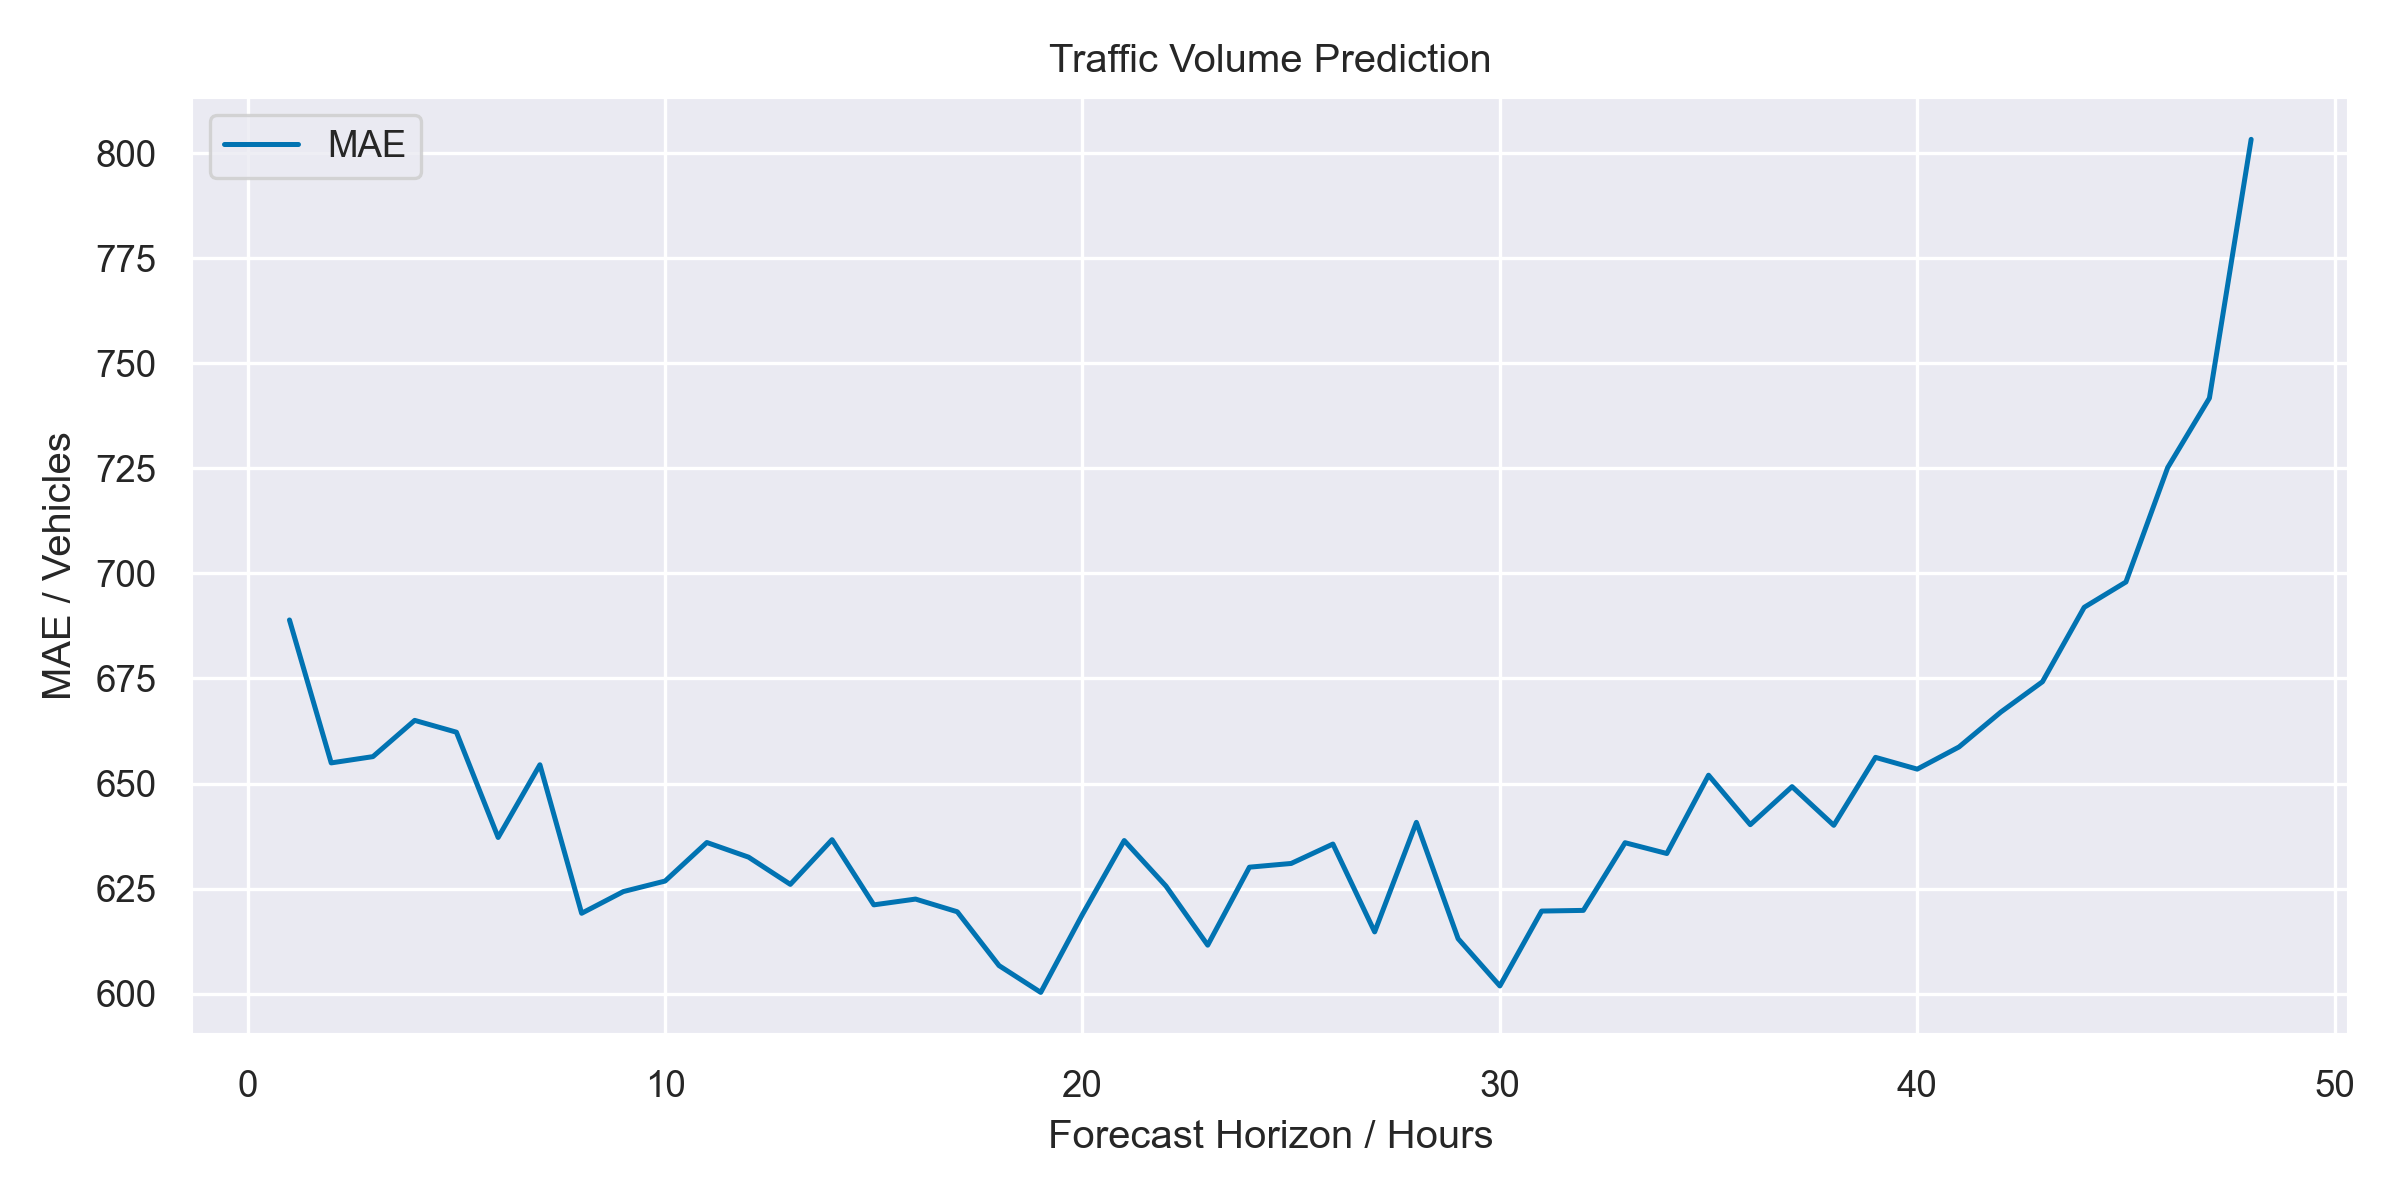
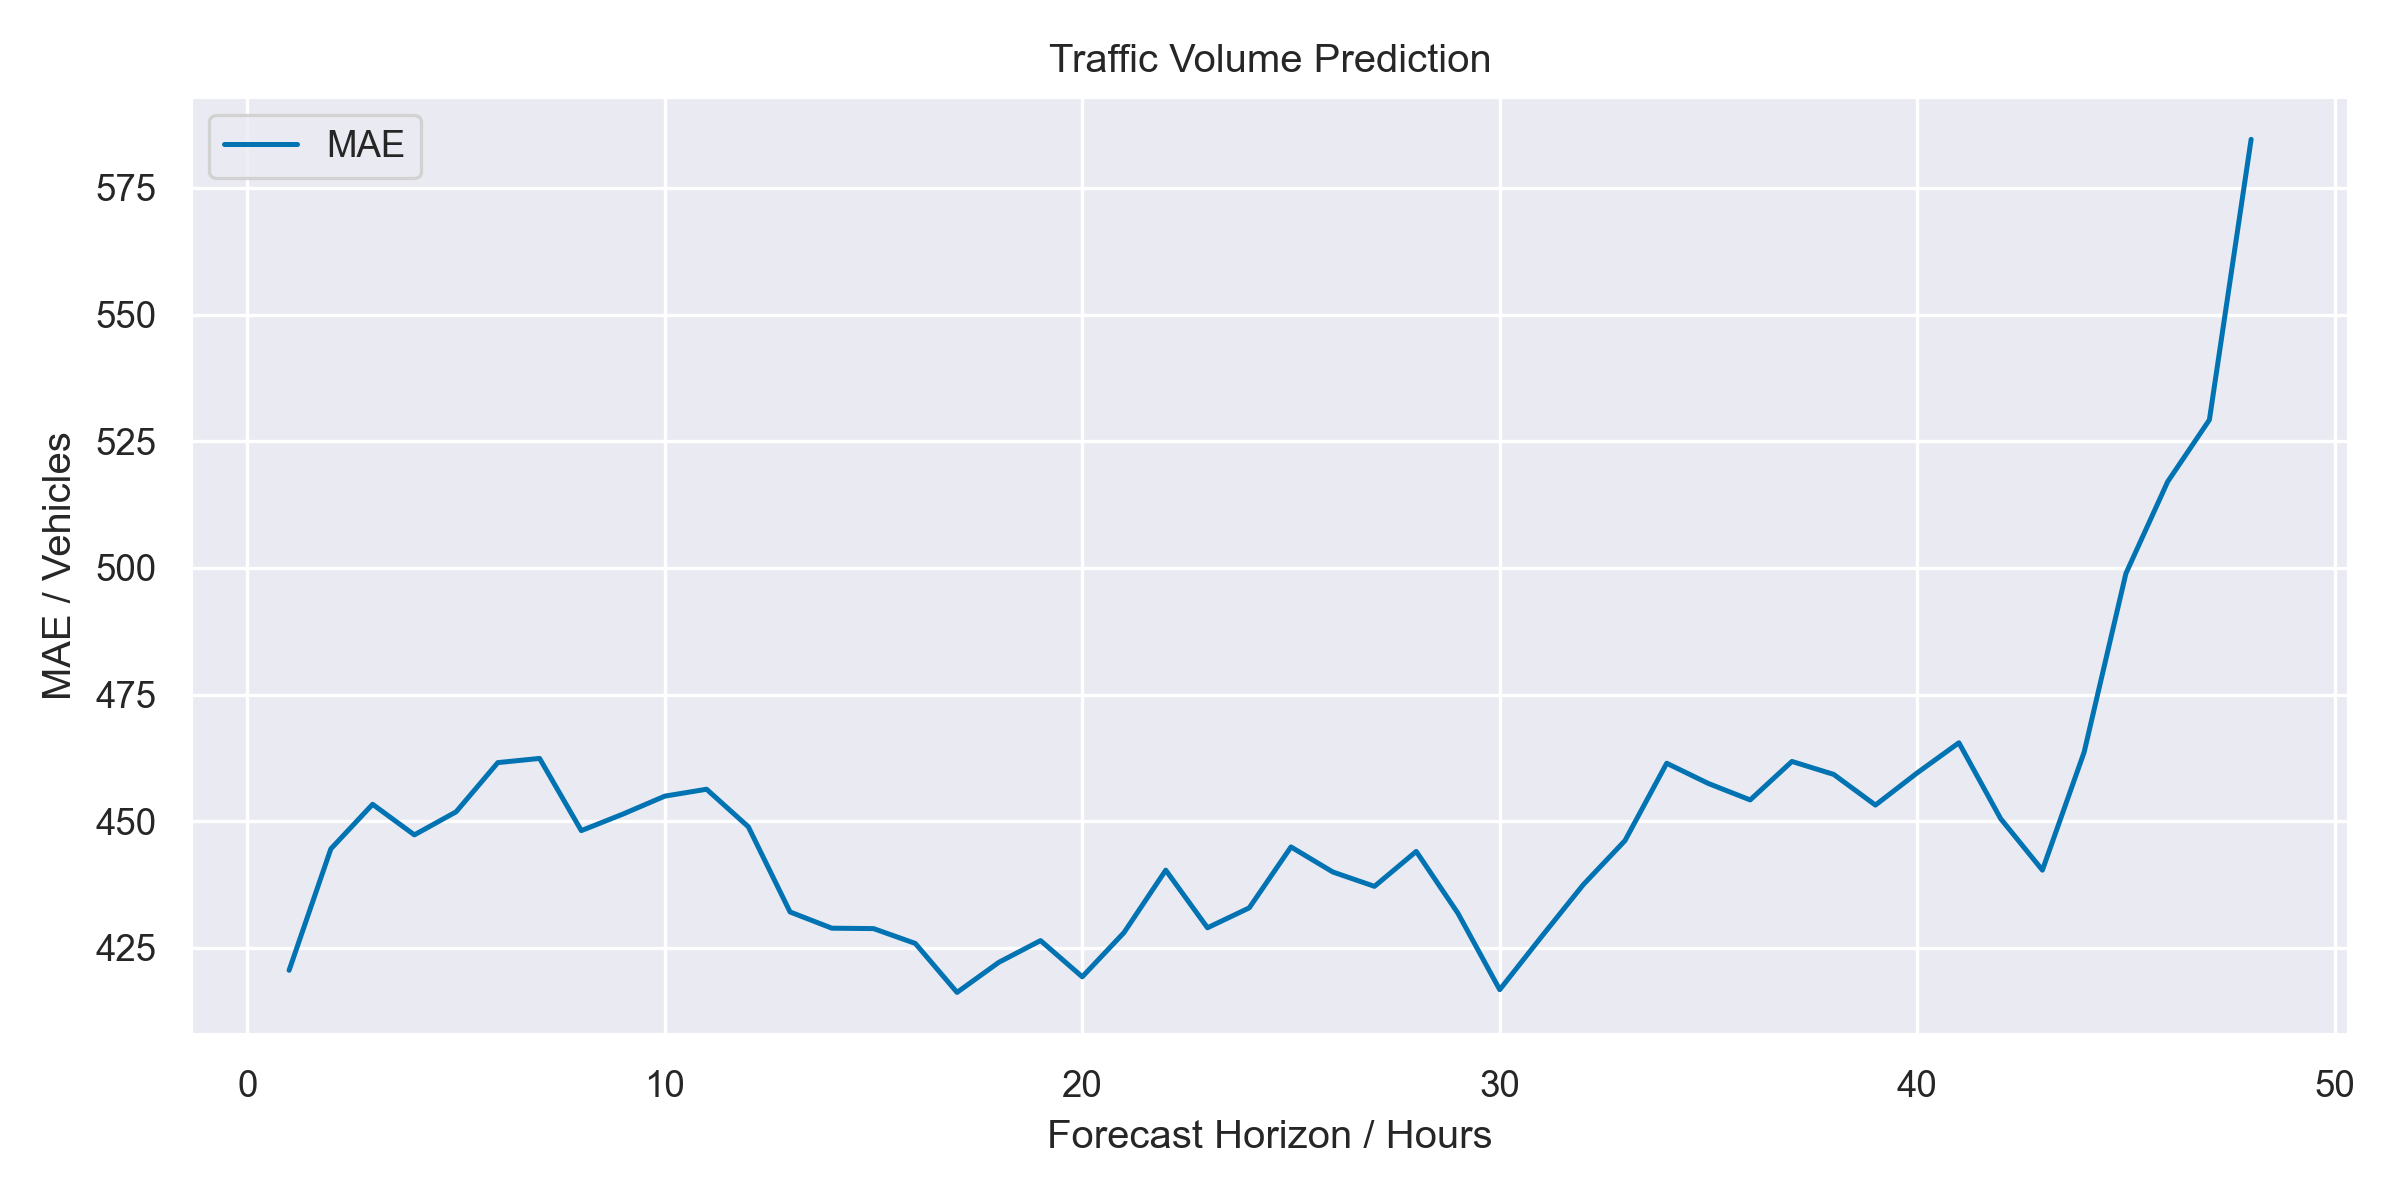
Update plots with early stopping results

diff --git a/traffic_volume_prediction/experiment.py b/traffic_volume_prediction/experiment.py
@@ -150,7 +150,7 @@ def train_new_model(model, loss_fn, train_dataloader, val_dataloader, model_file
     optimizer = torch.optim.Adam(model.parameters(), lr=1e-3)
 
     # Define the number of epochs
-    num_epochs = 10
+    num_epochs = 1000
 
     # Define the lists to store the loss values
     train_losses = []

diff --git a/traffic_volume_prediction/README.md b/traffic_volume_prediction/README.md
@@ -15,6 +15,9 @@ In addition to the raw traffic volume data, we also use time encoding to help th
 ## DNN Architecture
 The DNN used in this project consists of an input layer, two hidden layers, and an output layer. The input layer takes in the data in each window and passes it through a fully connected layer with ReLU activation functions.
 
+## Early Stopping
+Early stopping is used to prevent overfitting. Specifically, the training is stopped when the validation loss stops decreasing for a certain number of epochs. In our current experiments, early stopping kicks in at around 65 epochs.
+
 ## Results
 The mean absolute error (MAE) is used as the evaluation metric for this project. The MAE is calculated as the average absolute difference between the predicted traffic volume and the true traffic volume over all forecast horizons. The MAE is reported in vehicles and increases as the forecast horizon gets larger.
 
